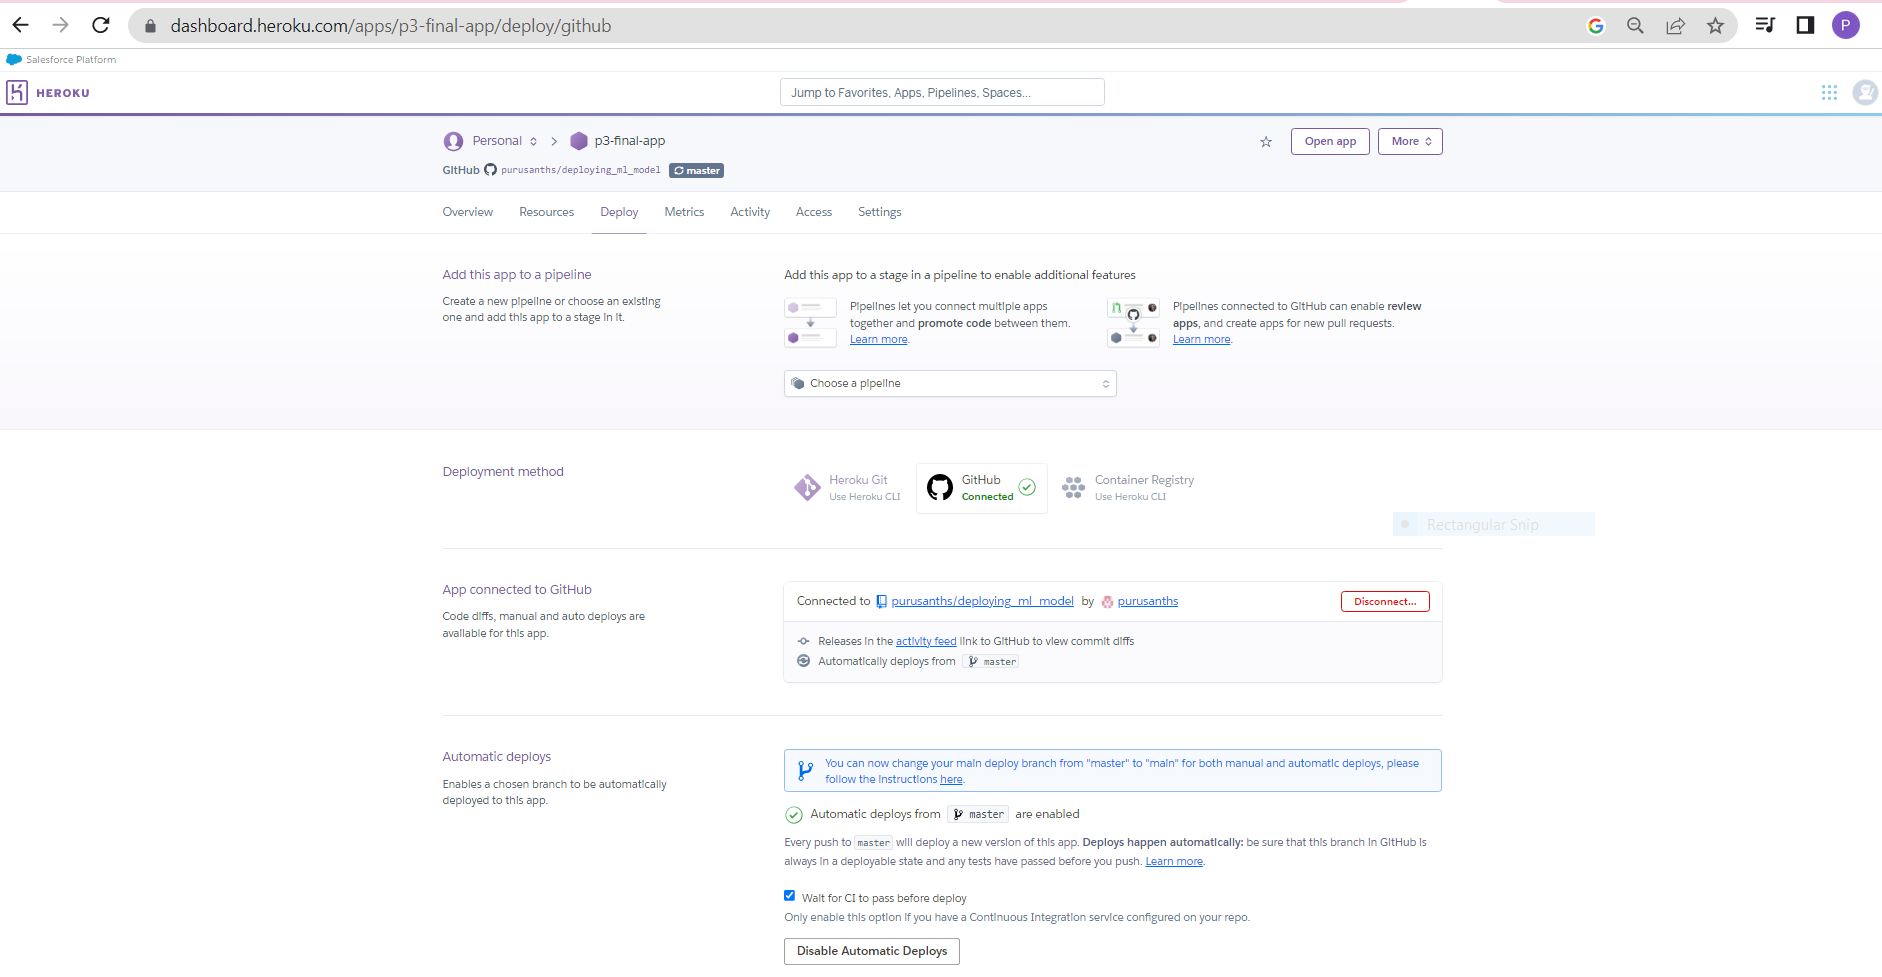
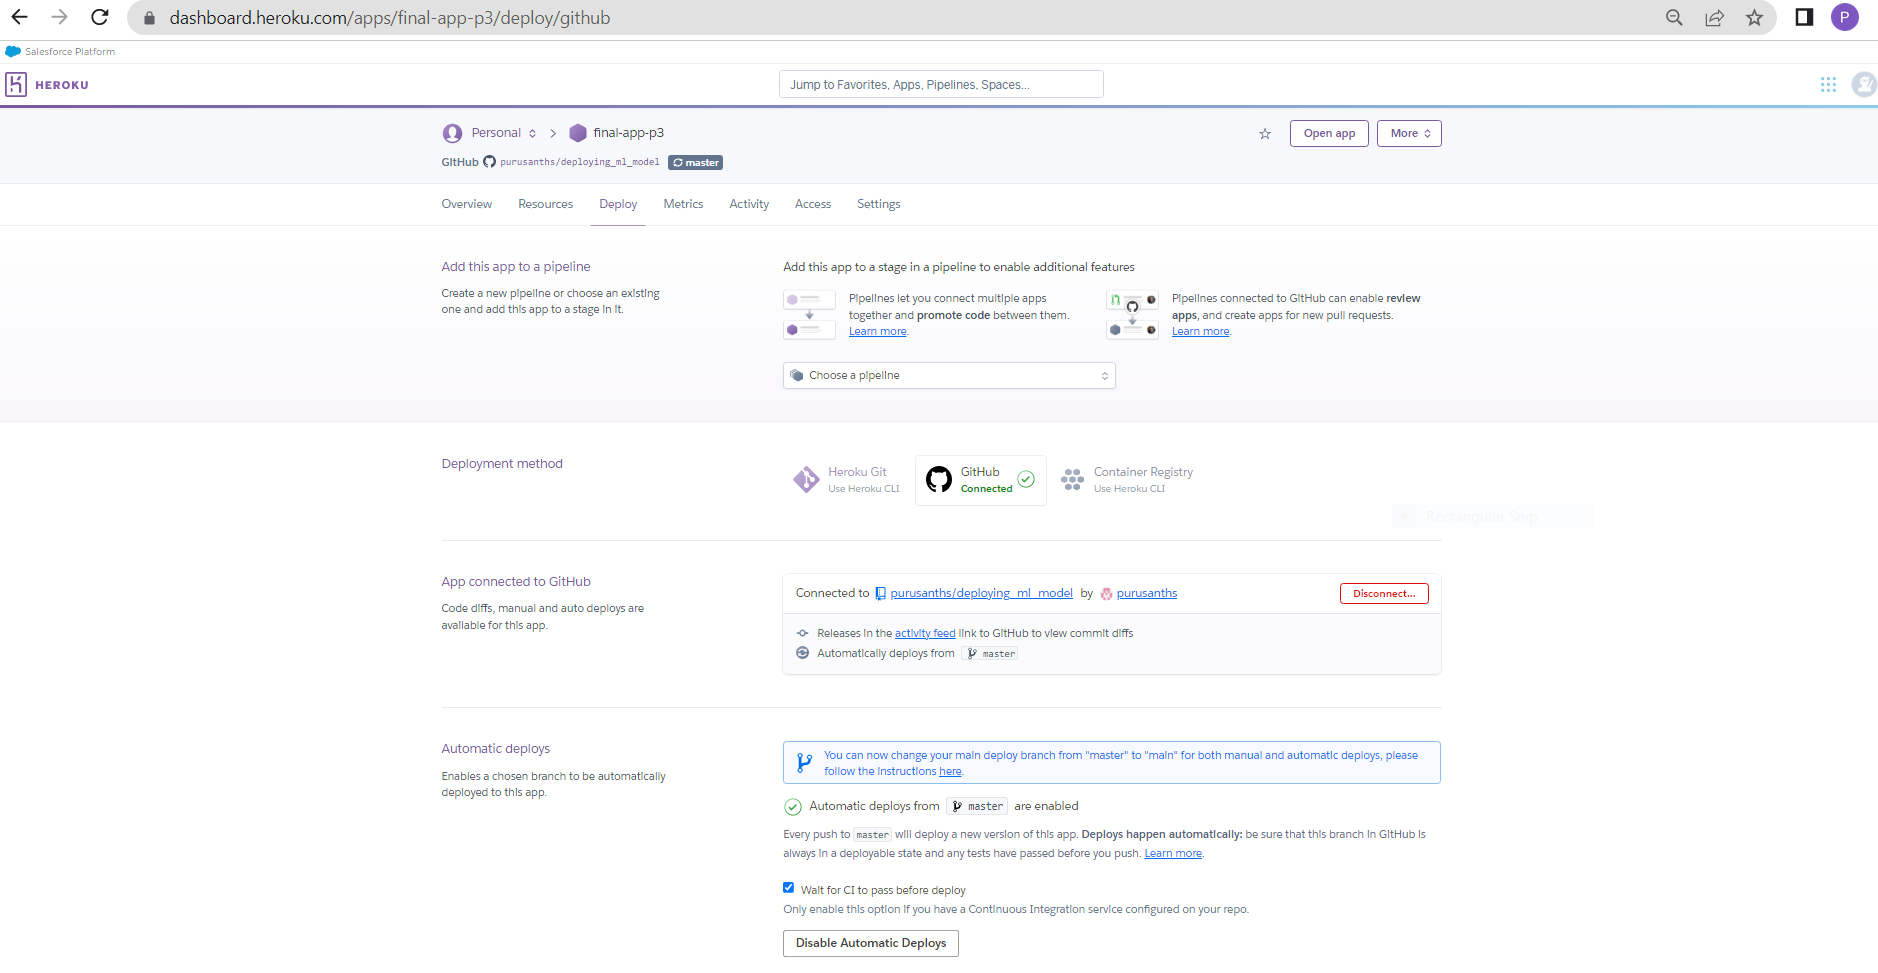
screenshots apped

diff --git a/starter/live_api.py b/starter/live_api.py
@@ -18,7 +18,7 @@ data = json.dumps({
         "native-country": "United-States"
         })
 #headers={'Content-Type: application/json'}
-response = requests.post("https://p3-final-app.herokuapp.com/inference",data=data)
+response = requests.post("https://final-app-p3.herokuapp.com/inference",data=data)
 
 print(response.status_code)
 print(response.json())
